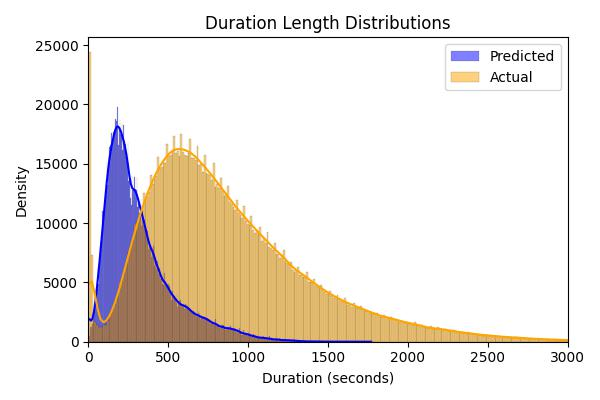
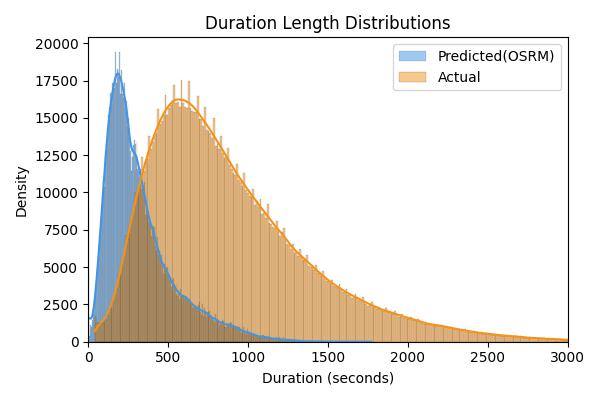
preds

Changed region(s): [[0.06, 0.15, 0.96, 0.87], [0.66, 0.12, 0.93, 0.21], [0.06, 0.09, 0.15, 0.15]]

diff --git a/README.md b/README.md
@@ -467,6 +467,7 @@ After adding more features we can observe correlation in this correlation matrix
 # Model Training 
 
 ### Evaluation Metric  
+
 Our chosen evaluation metric is **Root Mean Squared Logarithmic Error (RMSLE)**. This metric is ideal for our problem because:  
 - It is robust to outliers and works well with skewed data.  
 - It focuses on relative differences rather than absolute ones, which is suitable for predicting durations that can vary widely.  
@@ -484,32 +485,12 @@ By adhering to these constraints, our model mimics real-world prediction scenari
 
 ### Baseline Model  
 
-To predict taxi trip durations, we developed a **baseline model** using a simple linear regression algorithm with a pipeline in `sklearn`. The pipeline ensures a systematic approach to preprocessing and training, making it easy to extend and refine later.
+To predict taxi trip durations, we developed a **baseline model** using a simple linear regression algorithm with a pipeline in `sklearn`.
 
-### Features  
-We used two types of features in our baseline model:  
-
-1. **Quantitative Features** (Numerical):  
-   - Includes all numerical columns in the dataset.  
-   - **Preprocessing:** Missing values were imputed using the mean, and values were scaled using `StandardScaler` to normalize the feature distributions.  
-
-2. **Nominal Features** (Categorical):  
-   - Includes all non-numerical columns in the dataset.  
-   - **Preprocessing:** Missing values were imputed with the placeholder value `"Unknown"`, and one-hot encoding was applied to convert categories into binary indicators.  
-
-Features dropped from the dataset include:
-- `AIRPORT`, as it had too many missing or irrelevant values.  
-- `DURATION` and related columns like `log_duration`, since they are directly related to the target variable and would lead to data leakage.
-
-### Model Pipeline  
-The pipeline implemented the following steps:  
-1. **Preprocessing:**  
-   - Numerical features: Imputation and scaling.  
-   - Categorical features: Imputation and one-hot encoding.  
-2. **Regression Model:**  
-   - A simple **Linear Regression** model was chosen to establish a baseline.  
+The baseline model used only the features included in the orginal model.
 
 ### Results and Analysis  
+
 After training the model on 80% of the dataset and testing on the remaining 20%, the baseline model achieved an **RMSLE score of 0.824**.  
 
 This score indicates that, on average, the model's predictions differ from the true values by a factor of approximately **2.28** (calculated as e^0.824). For instance, if the actual trip duration is 10 minutes, the model typically predicts a duration in the range of 4.39 minutes (10 ÷ 2.28) to 22.8 minutes (10 × 2.28).  
@@ -518,41 +499,62 @@ This reflects the limitations of the baseline model, which used minimal feature 
 
 ### Model Selection
 
+To determine the best model for predicting taxi trip durations, we evaluated Ridge Regression, Lasso Regression, CatBoost, XGBoost, and a blended model approach. Each model was tested using 5-fold cross-validation and hyperparameter tuning, with Root Mean Squared Logarithmic Error (RMSLE) as the evaluation metric. Ridge and Lasso offered simplicity and interpretability but struggled to capture non-linear relationships. CatBoost and XGBoost performed better, leveraging gradient boosting to handle complex patterns effectively. However, LightGBM outperformed all other models due to its speed, scalability, and ability to handle missing values and categorical features. Its robust regularization and flexibility made it the optimal choice for both training and validation datasets.
 
 ### Final Model  
 
-The **final model** improves upon the baseline by incorporating thoughtfully engineered features and leveraging hyperparameter tuning to refine performance.
+The **final model**, built with LightGBM, significantly outperforms the baseline by integrating thoughtfully engineered features and optimizing hyperparameters to refine performance. These enhancements captured the complex relationships in the data, enabling more accurate predictions.
 
+### Model Pipeline  
 
-### Modeling Algorithm and Hyperparameter Tuning  
+The model pipeline included the following steps:  
+1. **Preprocessing:**  
+   - **Numerical Features:** Imputed missing values and applied scaling.  
+   - **Categorical Features:** Imputed missing values and applied one-hot encoding.  
+2. **Regression Model:**  
+   - LightGBM was chosen for its speed, scalability, and ability to handle large datasets and complex patterns.  
 
-1. **Algorithm:**  
-   - The final model used **Linear Regression**.  
-   - **Why Linear Regression:**  
-     - It provides a transparent and interpretable baseline for understanding the effects of the new features.  
-     - Linear Regression pairs well with polynomial features, effectively capturing non-linear trends without the complexity of tree-based models.  
+### Hyperparameter Tuning  
 
-2. **Hyperparameter Tuning:**  
-   - **Parameter Tuned:** Degree of polynomial features (`1, 2, 3`).  
-   - **Method:** Used `GridSearchCV` with 5-fold cross-validation to identify the optimal degree of polynomial features.  
-   - **Best Hyperparameter:** Degree = 2.  
-     - Higher degrees (e.g., 3) added unnecessary complexity without improving performance.  
-     - Degree 2 captured key non-linear relationships without overfitting.  
+- **Method:** GridSearchCV with 5-fold cross-validation.  
+- **Best Hyperparameters:**  
+  - `max_depth`: 20  
+  - `num_leaves`: 4000  
+  - `feature_fraction`: 0.9  
+  - `learning_rate`: 0.1  
+  - `n_estimators`: 500  
 
----
+These parameters allowed the model to balance accuracy and generalization effectively without overfitting. 
+
 
 ### Results and Analysis  
 
 - **Baseline Model:**  
   - **RMSLE Score:** 0.824  
-  - **Limitations:** Relied on minimal preprocessing and did not incorporate domain-specific knowledge or non-linear relationships.  
+  - **Limitations:** Minimal feature engineering and preprocessing resulted in poor performance on non-linear and complex relationships.  
 
 - **Final Model:**  
-  - **RMSLE Score:** 0.657 
+  - **RMSLE Score:** 0.1121  
   - **Why the Improvement:**  
-    - New features such as distance, center, and direction added contextual information.  
-    - Polynomial features allowed the model to understand non-linear interactions, particularly between distance, time, and other trip-specific variables.  
+    - Features like trip distance, geographic center, and direction added critical contextual information.  
+    - LightGBM captures non-linear interactions like distance and duration inherently, outperforming linear regression which requires manual transformations. 
 
-This improvement demonstrates the importance of thoughtful feature engineering and hyperparameter tuning in creating a model that better aligns with the real-world data generating process.
+This demonstrates the importance of feature engineering and hyperparameter optimization in building a model that aligns closely with the real-world data generation process.
 
 # Final Predictions and Conclusion
+
+We can visulize the distribution of our final predcitions on the unseen test data.
+
+<div style="text-align: center;">
+    <iframe
+    src="final_pred.jpeg"
+    width="800"
+    height="420"
+    frameborder="0"
+    ></iframe>
+</div>
+
+
+The final LightGBM model demonstrated exceptional performance, significantly improving prediction accuracy compared to the baseline. The visualization of predictions on unseen test data confirms the model's ability to generalize well and effectively capture the relationships in the dataset. These results highlight the importance of combining robust algorithms, thoughtful feature engineering, and hyperparameter tuning to achieve high-quality predictions. This model provides a strong foundation for real-world applications, such as optimizing taxi routes or estimating travel times in similar scenarios.
+
+
